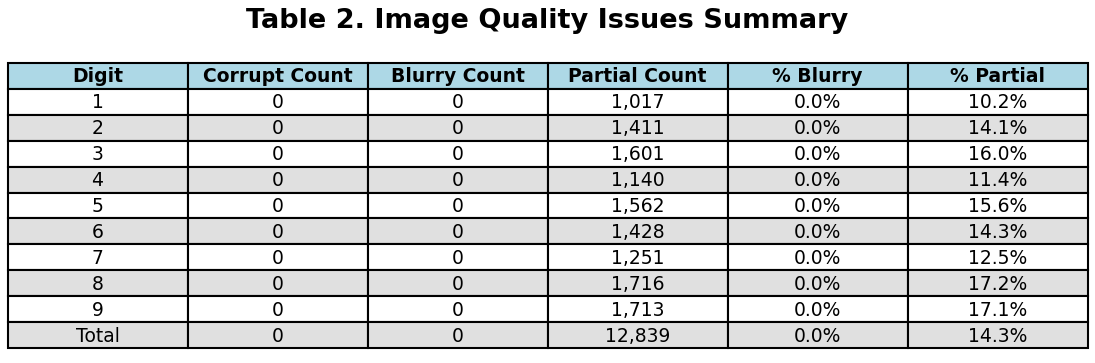
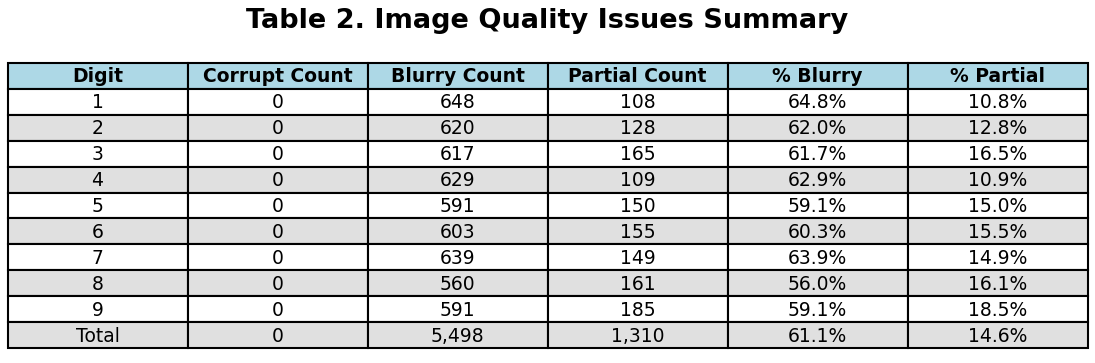
Add step 7 histogram

diff --git a/dev_tools/data_utils/dataset_evaluation.py b/dev_tools/data_utils/dataset_evaluation.py
@@ -146,7 +146,7 @@ class DigitDatasetEvaluator:
         plt.legend(fontsize=plot_params["legend_font_size"], loc=plot_params["legend_loc"])
         plt.tight_layout()
 
-        save_path = os.path.join(self.output_dir, "class_distribution_histogram.png")
+        save_path = os.path.join(self.output_dir, "step_1_class_distribution_histogram.png")
         plt.savefig(save_path)
         plt.close()
 
@@ -209,7 +209,7 @@ class DigitDatasetEvaluator:
         plt.xticks(rotation=45, ha='right', fontsize=plot_params["font_size"])
         plt.tight_layout()
 
-        save_path: str = os.path.join(self.output_dir, "image_dimension_histogram.png")
+        save_path: str = os.path.join(self.output_dir, "step_2_image_dimension_histogram.png")
         plt.savefig(save_path)
         plt.close()
 
@@ -261,7 +261,7 @@ class DigitDatasetEvaluator:
 
         # Adjust layout to leave space for the title, then save the output
         plt.tight_layout(rect=[0, 0, 1, 0.97])  # Leave space for title
-        output_path = os.path.join(self.output_dir, "sample_grid.png")
+        output_path = os.path.join(self.output_dir, "step_3_sample_grid.png")
         plt.savefig(output_path, bbox_inches="tight")  # Save the image
         plt.close()
 
@@ -451,14 +451,9 @@ class DigitDatasetEvaluator:
         else:
             self.log("⚠ [Step 6 Complete] No images found for centering heatmap.")
 
-    def step_7_detect_blurry_images(self, threshold: float = 100.0) -> List[Tuple[str, float]]:
+    def step_7_detect_blurry_images(self, threshold: float = 1500.0) -> List[Tuple[str, float]]:
         """
-        Detects blurry images using the variance of the Laplacian method.
-
-        This step:
-          - Calculates the Laplacian variance for each image, which is a measure of image sharpness.
-          - Flags images with a Laplacian variance below the specified threshold as blurry.
-          - Logs the results and provides a list of detected blurry images.
+        Detects blurry images using the variance of the Laplacian method and plots the Laplacian variance distribution.
 
         Args:
             threshold (float): The Laplacian variance threshold below which images will be considered blurry. Default is 100.0.
@@ -469,6 +464,8 @@ class DigitDatasetEvaluator:
         self.log("\n🔍 [Step 7] Detecting blurry images...")
 
         blurry_images: List[Tuple[str, float]] = []
+        lap_variances: List[float] = []  # Collecting Laplacian variance for each image
+
         all_images = [(digit, os.path.join(path, img))
                       for digit, path in self.digit_dirs.items()
                       for img in os.listdir(path)]
@@ -478,6 +475,7 @@ class DigitDatasetEvaluator:
                 img = cv2.imread(img_path, cv2.IMREAD_GRAYSCALE)
                 if img is not None:
                     lap_var = cv2.Laplacian(img, cv2.CV_64F).var()
+                    lap_variances.append(lap_var)  # Store Laplacian variance for plotting
                     if lap_var < threshold:
                         blurry_images.append((img_path, lap_var))
                 bar.update(1)
@@ -487,6 +485,34 @@ class DigitDatasetEvaluator:
             self.log(f" - {img_path} | Laplacian variance: {score:.2f}")
 
         self.log("✅ [Step 7 Complete] Blurry image detection done.\n")
+
+        # Plot the histogram similar to Step 4
+        plot_params = self.get_plot_params()
+
+        with tqdm(total=1, desc="📊 Plotting & Saving", unit="task") as pbar:
+            plt.figure(figsize=(plot_params["figsize"][0], plot_params["figsize"][1]))
+
+            # Plot histogram of Laplacian variance
+            plt.hist(lap_variances, bins=50, alpha=0.6, label="Laplacian Variance",
+                     color=plot_params["distorted_color"])
+
+            # Plot a threshold line for blurry images
+            plt.axvline(x=threshold, color='red', linestyle='dashed', linewidth=2, label=f'Threshold: {threshold}')
+
+            # Add title and labels
+            plt.title("Laplacian Variance Distribution (Blurry Image Detection)", fontsize=plot_params["font_size"])
+            plt.xlabel("Laplacian Variance", fontsize=plot_params["font_size"])
+            plt.ylabel("Frequency", fontsize=plot_params["font_size"])
+            plt.legend(fontsize=plot_params["legend_font_size"], loc=plot_params["legend_loc"])
+
+            # Save the plot
+            output_path = os.path.join(self.output_dir, "step_7_laplacian_variance_histogram.png")
+            plt.tight_layout()
+            plt.savefig(output_path)
+            plt.close()
+            pbar.update(1)
+
+        self.log(f"✅ [Step 7] Histogram saved as '{output_path}'\n")
 
         return blurry_images
 
@@ -738,7 +764,7 @@ class DigitDatasetEvaluator:
         final_image = self._concatenate_3x3_grid(digit_visuals)
 
         # 5. Save grid using matplotlib with styled title
-        grid_path = os.path.join(self.output_dir, "duplicate_images_grid.png")
+        grid_path = os.path.join(self.output_dir, "step_10_duplicate_images_grid.png")
         plot_params = self.get_plot_params()
 
         fig, ax = plt.subplots(figsize=plot_params["figsize"])
@@ -765,7 +791,7 @@ class DigitDatasetEvaluator:
         plt.xticks(range(1, 10))
         plt.tight_layout()
 
-        hist_path = os.path.join(self.output_dir, "duplicate_group_histogram.png")
+        hist_path = os.path.join(self.output_dir, "step_10_duplicate_group_histogram.png")
         plt.savefig(hist_path)
         plt.close()
         self.log(f"📊 Saved histogram of duplicate groups per digit → {hist_path}\n")
@@ -894,7 +920,7 @@ class DigitDatasetEvaluator:
             cbar_ax = sobel_fig.add_axes([0.9, 0.15, 0.02, 0.7])
             sobel_fig.colorbar(final_imshow_sobel, cax=cbar_ax, label="Feature Intensity (Sobel)")
             sobel_fig.suptitle("Local Feature Consistency (Sobel)", fontsize=self.plot_params["font_size"] + 4)
-            sobel_path = os.path.join(self.output_dir, "local_feature_consistency_sobel.png")
+            sobel_path = os.path.join(self.output_dir, "step_11_local_feature_consistency_sobel.png")
             sobel_fig.savefig(sobel_path, bbox_inches="tight")
             plt.close(sobel_fig)
 
@@ -904,7 +930,7 @@ class DigitDatasetEvaluator:
             cbar_ax = orb_fig.add_axes([0.9, 0.15, 0.02, 0.7])
             orb_fig.colorbar(final_imshow_orb, cax=cbar_ax, label="Feature Intensity (ORB)")
             orb_fig.suptitle("Local Feature Consistency (ORB)", fontsize=self.plot_params["font_size"] + 4)
-            orb_path = os.path.join(self.output_dir, "local_feature_consistency_orb.png")
+            orb_path = os.path.join(self.output_dir, "step_11_local_feature_consistency_orb.png")
             orb_fig.savefig(orb_path, bbox_inches="tight")
             plt.close(orb_fig)
 
@@ -991,7 +1017,7 @@ class DigitDatasetEvaluator:
             fig.colorbar(reference_im, cax=cbar_ax, label="Normalized Intensity")
 
         # Save the figure
-        output_path = os.path.join(self.output_dir, "digit_heatmap_grid.png")
+        output_path = os.path.join(self.output_dir, "step_12_digit_heatmap_grid.png")
         plt.savefig(output_path, bbox_inches='tight')
         plt.close()
 
@@ -1653,8 +1679,8 @@ class DigitDatasetEvaluator:
 
 
 if __name__ == "__main__":
-    evaluator = DigitDatasetEvaluator(dataset_path="digit_dataset")
-    evaluator.run_full_evaluation([4])
+    evaluator = DigitDatasetEvaluator(dataset_path="test_dataset")
+    evaluator.run_full_evaluation("5, 7, 9")
 
 
 
